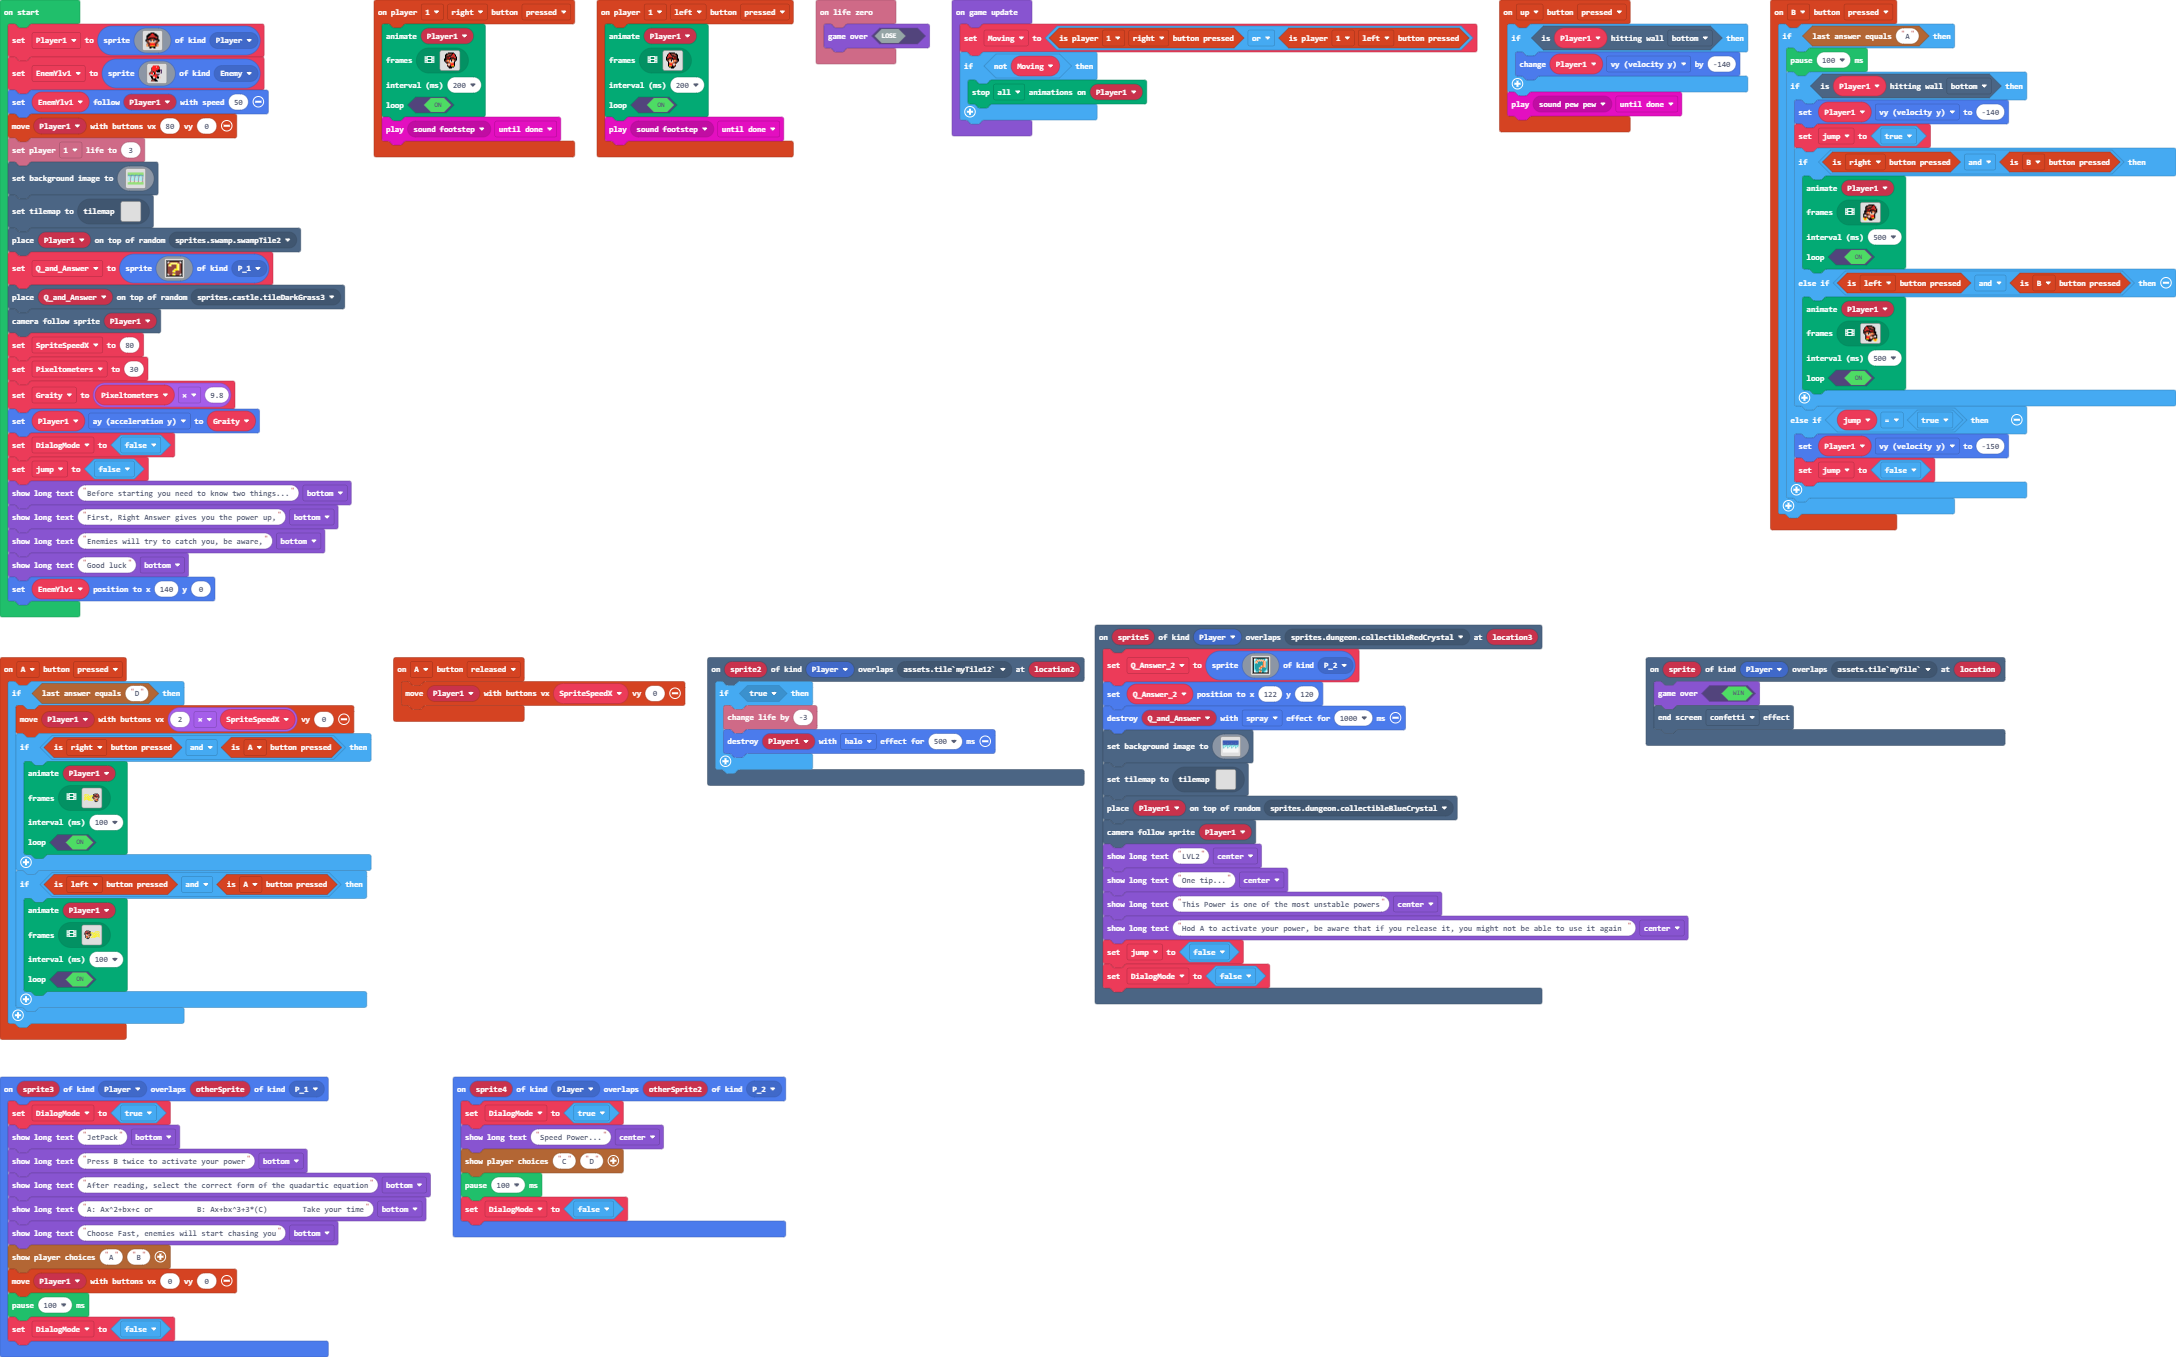
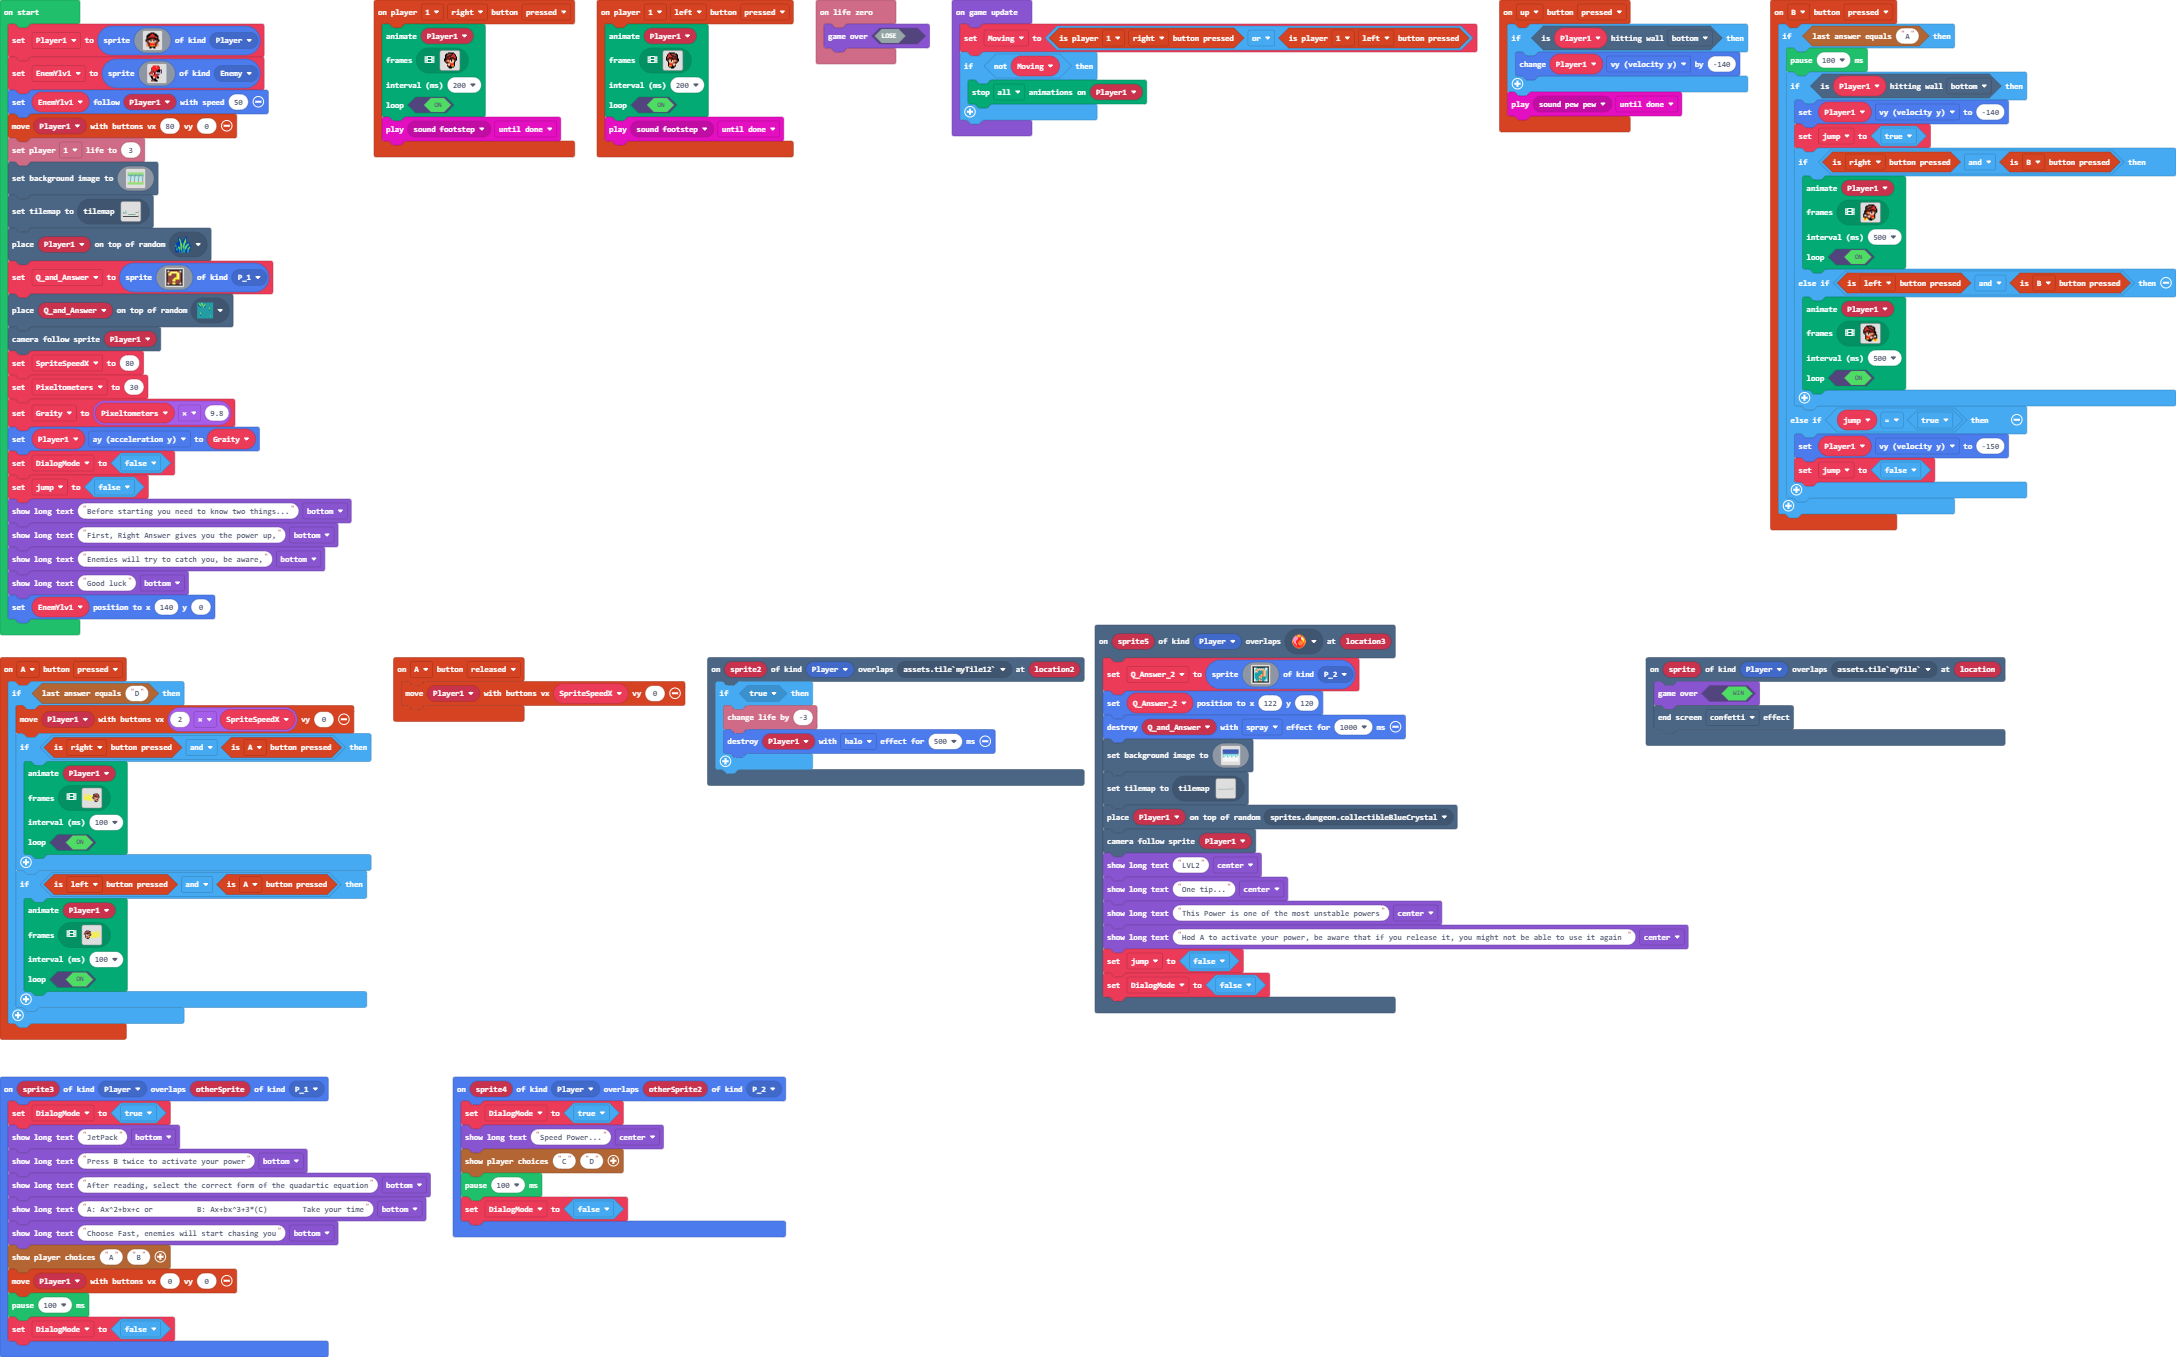
Update main.blocks, main.ts, tilemap.g.jres, tilemap.g.ts

Changed region(s): [[0.5, 0.4333, 0.7812, 0.7738], [0.0, 0.1548, 0.1562, 0.4952]]

diff --git a/tilemap.g.ts b/tilemap.g.ts
@@ -3,6 +3,10 @@ namespace myTiles {
     //% fixedInstance jres blockIdentity=images._tile
     export const transparency16 = image.ofBuffer(hex``);
     //% fixedInstance jres blockIdentity=images._tile
+    export const tile3 = image.ofBuffer(hex``);
+    //% fixedInstance jres blockIdentity=images._tile
+    export const tile2 = image.ofBuffer(hex``);
+    //% fixedInstance jres blockIdentity=images._tile
     export const tile1 = image.ofBuffer(hex``);
 
     helpers._registerFactory("tilemap", function(name: string) {
@@ -26,25 +30,6 @@ namespace myTiles {
 . . . . . . . . . . . . . . . . 
 . . . . . . . . . . . . . . . . 
 `, [], -Infinity);
-            case "level2":
-            case "level2":return tiles.createTilemap(hex`1000100000000000000000000000000000000000000000000000000000000000000000000000000000000000000000000000000000000000000000000000000000000000000000000000000000000000000000000000000000000000000000000000000000000000000000000000000000000000000000000000000000000000000000000000000000000000000000000000000000000000000000000000000000000000000000000000000000000000000000000000000000000000000000000000000000000000000000000000000000000000000000000000000000000000000000000000000000000000000000000000000000000000000000000000000000000000`, img`
-. . . . . . . . . . . . . . . . 
-. . . . . . . . . . . . . . . . 
-. . . . . . . . . . . . . . . . 
-. . . . . . . . . . . . . . . . 
-. . . . . . . . . . . . . . . . 
-. . . . . . . . . . . . . . . . 
-. . . . . . . . . . . . . . . . 
-. . . . . . . . . . . . . . . . 
-. . . . . . . . . . . . . . . . 
-. . . . . . . . . . . . . . . . 
-. . . . . . . . . . . . . . . . 
-. . . . . . . . . . . . . . . . 
-. . . . . . . . . . . . . . . . 
-. . . . . . . . . . . . . . . . 
-. . . . . . . . . . . . . . . . 
-. . . . . . . . . . . . . . . . 
-`, [myTiles.transparency16], TileScale.Sixteen);
             case "level3":
             case "level3":return tiles.createTilemap(hex`1000100000000000000000000000000000000000000000000000000000000000000000000000000000000000000000000000000000000000000000000000000000000000000000000000000000000000000000000000000000000000000000000000000000000000000000000000000000000000000000000000000000000000000000000000000000000000000000000000000000000000000000000000000000000000000000000000000000000000000000000000000000000000000000000000000000000000000000000000000000000000000000000000000000000000000000000000000000000000000000000000000000000000000000000000000000000000`, img`
 . . . . . . . . . . . . . . . . 
@@ -64,6 +49,158 @@ namespace myTiles {
 . . . . . . . . . . . . . . . . 
 . . . . . . . . . . . . . . . . 
 `, [], -Infinity);
+            case "level5":
+            case "level5":return tiles.createTilemap(hex`1000100000000000000000000000000000000000000000000000000000000000000000000000000000000000000000000000000000000000000000000000000000000000000000000000000000000000000000000000000000000000000000000000000000000000000000000000000000000000000000000000000000000000000000000000000000000000000000000000000000000000000000000000000000000000000000000000000000000000000000000000000000000000000000000000000000000000000000000000000000000000000000000000000000000000000000000000000000000000000000000000000000000000000000000000000000000000`, img`
+. . . . . . . . . . . . . . . . 
+. . . . . . . . . . . . . . . . 
+. . . . . . . . . . . . . . . . 
+. . . . . . . . . . . . . . . . 
+. . . . . . . . . . . . . . . . 
+. . . . . . . . . . . . . . . . 
+. . . . . . . . . . . . . . . . 
+. . . . . . . . . . . . . . . . 
+. . . . . . . . . . . . . . . . 
+. . . . . . . . . . . . . . . . 
+. . . . . . . . . . . . . . . . 
+. . . . . . . . . . . . . . . . 
+. . . . . . . . . . . . . . . . 
+. . . . . . . . . . . . . . . . 
+. . . . . . . . . . . . . . . . 
+. . . . . . . . . . . . . . . . 
+`, [myTiles.transparency16], TileScale.Sixteen);
+            case "level6":
+            case "level6":return tiles.createTilemap(hex`1000100000000000000000000000000000000000000000000000000000000000000000000000000000000000000000000000000000000000000000000000000000000000000000000000000000000000000000000000000000000000000000000000000000000000000000000000000000000000000000000000000000000000000000000000000000000000000000000000000000000000000000000000000000000000000000000000000000000000000000000000000000000000000000000000000000000000000000000000000000000000000000000000000000000000000000000000000000000000000000000000000000000000000000000000000000000000`, img`
+. . . . . . . . . . . . . . . . 
+. . . . . . . . . . . . . . . . 
+. . . . . . . . . . . . . . . . 
+. . . . . . . . . . . . . . . . 
+. . . . . . . . . . . . . . . . 
+. . . . . . . . . . . . . . . . 
+. . . . . . . . . . . . . . . . 
+. . . . . . . . . . . . . . . . 
+. . . . . . . . . . . . . . . . 
+. . . . . . . . . . . . . . . . 
+. . . . . . . . . . . . . . . . 
+. . . . . . . . . . . . . . . . 
+. . . . . . . . . . . . . . . . 
+. . . . . . . . . . . . . . . . 
+. . . . . . . . . . . . . . . . 
+. . . . . . . . . . . . . . . . 
+`, [myTiles.transparency16], TileScale.Sixteen);
+            case "level4":
+            case "level4":return tiles.createTilemap(hex`1000100000000000000000000000000000000000000000000000000000000000000000000000000000000000000000000000000000000000000000000000000000000000000000000000000000000000000000000000000000000000000000000000000000000000000000000000000000000000000000000000000000000000000000000000000000000000000000000000000000000000000000000000000000000000000000000000000000000000000000000000000000000000000000000000000000000000000000000000000000000000000000000000000000000000000000000000000000000000000000000000000000000000000000000000000000000000`, img`
+. . . . . . . . . . . . . . . . 
+. . . . . . . . . . . . . . . . 
+. . . . . . . . . . . . . . . . 
+. . . . . . . . . . . . . . . . 
+. . . . . . . . . . . . . . . . 
+. . . . . . . . . . . . . . . . 
+. . . . . . . . . . . . . . . . 
+. . . . . . . . . . . . . . . . 
+. . . . . . . . . . . . . . . . 
+. . . . . . . . . . . . . . . . 
+. . . . . . . . . . . . . . . . 
+. . . . . . . . . . . . . . . . 
+. . . . . . . . . . . . . . . . 
+. . . . . . . . . . . . . . . . 
+. . . . . . . . . . . . . . . . 
+. . . . . . . . . . . . . . . . 
+`, [], -Infinity);
+            case "level7":
+            case "level7":return tiles.createTilemap(hex`1000100000000000000000000000000000000000000000000000000000000000000000000000000000000000000000000000000000000000000000000000000000000000000000000000000000000000000000000000000000000000000000000000000000000000000000000000000000000000000000000000000000000000000000000000000000000000000000000000000000000000000000000000000000000000000000000000000000000000000000000000000000000000000000000000000000000000000000000000000000000000000000000000000000000000000000000000000000000000000000000000000000000000000000000000000000000000`, img`
+. . . . . . . . . . . . . . . . 
+. . . . . . . . . . . . . . . . 
+. . . . . . . . . . . . . . . . 
+. . . . . . . . . . . . . . . . 
+. . . . . . . . . . . . . . . . 
+. . . . . . . . . . . . . . . . 
+. . . . . . . . . . . . . . . . 
+. . . . . . . . . . . . . . . . 
+. . . . . . . . . . . . . . . . 
+. . . . . . . . . . . . . . . . 
+. . . . . . . . . . . . . . . . 
+. . . . . . . . . . . . . . . . 
+. . . . . . . . . . . . . . . . 
+. . . . . . . . . . . . . . . . 
+. . . . . . . . . . . . . . . . 
+. . . . . . . . . . . . . . . . 
+`, [myTiles.transparency16], TileScale.Sixteen);
+            case "level8":
+            case "level8":return tiles.createTilemap(hex`320010000000000000000000000000000000000000000000000000000000000000000000000000000000000000000000000000000000000000000000000000000000000000000000000000000000000000000000000000000000000000000000000000000000000000000000000000000000000000000000000000000000000000000000000000000000000000000000000000000000000000000000000000000000000000000000000000000000000000000000000000000000000000000000000000000000000000000000000000000000000000000000000000000000000000000000000000000000000000000000000000000000000000000000000000000000000000000000000000000000000000000000000000000000000000000000000000000000000000000000000000000000000000000000000000000000000000000000000000000000000000000000000000000000000000000000000000000000000000000000000000000000000000000000000000000000000000000000000000000000000000000000000000000000000000000000000000000000000000000000000000000000000000000000000000000000000000000000000000000000000000000000000000000000000000000000000000000000000000000000000000000000000000000000000000000000000000000000000000000000000000000000000000000000000000000000000000000000000000000000000000000000000000000000000000000000000000000000000000000000000000000000000000000000000000000000000000000000000000000000000000000000000000000000000000000000000000000000000000000000000000000000000000000000000000000000000000000000000000000000000000000000000000000000000000000000000000000000000000000000000000000000000000000000000000000000000000000000000000000000000000000000000000000000000000000000000000000000000000000000000000000000000000000000000000000000000000000000000000000000000000000000000000000000000000000000000000000000`, img`
+..................................................
+..................................................
+..................................................
+..................................................
+..................................................
+..................................................
+..................................................
+..................................................
+..................................................
+..................................................
+..................................................
+..................................................
+..................................................
+..................................................
+..................................................
+..................................................
+`, [myTiles.transparency16], TileScale.Sixteen);
+            case "level9":
+            case "level9":return tiles.createTilemap(hex`1000100000000000000000000000000000000000000000000000000000000000000000000000000000000000000000000000000000000000000000000000000000000000000000000000000000000000000000000000000000000000000000000000000000000000000000000000000000000000000000000000000000000000000000000000000000000000000000000000000000000000000000000000000000000000000000000000000000000000000000000000000000000000000000000000000000000000000000000000000000000000000000000000000000000000000000000000000000000000000000000000000000000000000000000000000000000000`, img`
+. . . . . . . . . . . . . . . . 
+. . . . . . . . . . . . . . . . 
+. . . . . . . . . . . . . . . . 
+. . . . . . . . . . . . . . . . 
+. . . . . . . . . . . . . . . . 
+. . . . . . . . . . . . . . . . 
+. . . . . . . . . . . . . . . . 
+. . . . . . . . . . . . . . . . 
+. . . . . . . . . . . . . . . . 
+. . . . . . . . . . . . . . . . 
+. . . . . . . . . . . . . . . . 
+. . . . . . . . . . . . . . . . 
+. . . . . . . . . . . . . . . . 
+. . . . . . . . . . . . . . . . 
+. . . . . . . . . . . . . . . . 
+. . . . . . . . . . . . . . . . 
+`, [myTiles.transparency16], TileScale.Sixteen);
+            case "level2":
+            case "level2":return tiles.createTilemap(hex`18001000000000000000000000000000000000000000000000000000000000000000000000000000000000000000000000000000000000000000000000000000000000000000000000000000000000000000000000000000000000000000000000000000000000000000000000000000000000000000000000000000000000000000000000000000000000000000000000000000000000000000000000000000000000000000000000000000000000000400000000000000000000000000000000000000000000000000000000000000000000000000000000000005020000000000000000000000000000000000000303030303030303030303000000000000000000000000000000000000000000000000000000000000000000000000000000000000000000000000000003030303030303030303030000000000000000000000000000000000000000000000000000000000000000000000000000000000000000000000000000000000010101010101010101010101010101010101010101010101`, img`
+........................
+........................
+........................
+........................
+........................
+........................
+........................
+........................
+........................
+...................22222
+222222..................
+........................
+........22222222222.....
+........................
+........................
+........................
+`, [myTiles.transparency16,myTiles.tile3,sprites.swamp.swampTile2,sprites.builtin.forestTiles0,sprites.castle.tileDarkGrass3,sprites.dungeon.collectibleRedCrystal], TileScale.Sixteen);
+            case "level10":
[1 lines of base64/hex data omitted]
+..............................................................................................................
+..............................................................................................................
+..............................................................................................................
+..............................................................................................................
+..............................................................................................................
+..............................................................................................................
+..............................................................................................................
+..............................................................................................................
+..............................................................................................................
+..............................................................................................................
+................2222222222222........................2222222222...............................................
+...........................................222222222..........................................................
+2222222222222222..............222222222222....................................................................
+..............................................................................................................
+..............................................................................................................
+..............................................................................................................
+`, [myTiles.transparency16,myTiles.tile3,sprites.dungeon.collectibleBlueCrystal,sprites.dungeon.collectibleInsignia,sprites.dungeon.floorLight0,myTiles.tile2,myTiles.tile1], TileScale.Sixteen);
         }
         return null;
     })
@@ -71,6 +208,8 @@ namespace myTiles {
     helpers._registerFactory("tile", function(name: string) {
         switch(helpers.stringTrim(name)) {
             case "transparency16":return transparency16;
+            case "tile3":return tile3;
+            case "tile2":return tile2;
             case "tile1":return tile1;
         }
         return null;

diff --git a/main.ts b/main.ts
@@ -318,7 +318,7 @@ scene.onOverlapTile(SpriteKind.Player, sprites.dungeon.collectibleRedCrystal, fu
         1111111111111111111111111111111111111111111111111111111111111111111111111111111111111111111111111111111111111111111111111111111111111111111111111111111111111111
         1111111111111111111111111111111111111111111111111111111111111111111111111111111111111111111111111111111111111111111111111111111111111111111111111111111111111111
         `)
-    tiles.setCurrentTilemap(tilemap`level1`)
+    tiles.setCurrentTilemap(tilemap`level10`)
     tiles.placeOnRandomTile(Player1, sprites.dungeon.collectibleBlueCrystal)
     scene.cameraFollowSprite(Player1)
     game.showLongText("LVL2", DialogLayout.Center)
@@ -838,7 +838,7 @@ scene.setBackgroundImage(img`
     7777777777777777777777777777777777777777777777777777777777777777777777777777777777777777777777777777777777777777777777777777777777777777777777777777777777777777
     7777777777777777777777777777777777777777777777777777777777777777777777777777777777777777777777777777777777777777777777777777777777777777777777777777777777777777
     `)
-tiles.setCurrentTilemap(tilemap`level1`)
+tiles.setCurrentTilemap(tilemap`level2`)
 tiles.placeOnRandomTile(Player1, sprites.swamp.swampTile2)
 Q_and_Answer = sprites.create(img`
     f f f f f f f f f f f f f f f f 
